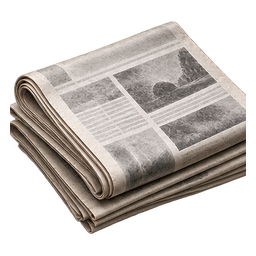
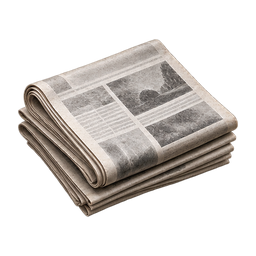
Add files via upload

diff --git a/main.js b/main.js
@@ -710,6 +710,29 @@ function getItemArtUrl(itemId) {
   return item?.image || item?.imageUrl || item?.iconSrc || null;
 }
 
+// V19.14: 首頁就開始背景下載＋解碼已製作的道具圖，提前暖好瀏覽器圖片快取。
+// 這些載入不阻塞開局、搜刮或拾取按鈕。保留 Image 參照可減少反覆解碼。
+const ITEM_ART_PRELOAD_CACHE = new Map();
+function preloadKnownItemArt() {
+  for (const itemId of AVAILABLE_ITEM_ART) {
+    if (ITEM_ART_PRELOAD_CACHE.has(itemId)) continue;
+    const image = new Image();
+    image.decoding = 'async';
+    image.src = getItemArtUrl(itemId);
+    const ready = image.decode ? image.decode().then(() => true).catch(() => false)
+      : new Promise(resolve => {
+          image.onload = () => resolve(true);
+          image.onerror = () => resolve(false);
+        });
+    ITEM_ART_PRELOAD_CACHE.set(itemId, { image, ready });
+  }
+}
+if (document.readyState === 'loading') {
+  window.addEventListener('DOMContentLoaded', preloadKnownItemArt, { once: true });
+} else {
+  preloadKnownItemArt();
+}
+
 function itemArtMarkup(itemId, classNames = 'w-9 h-9 shrink-0 object-contain pointer-events-none') {
   const url = getItemArtUrl(itemId);
   if (!url) return '';
@@ -747,29 +770,30 @@ function renderLootChoice() {
   const icon = document.getElementById('loot-choice-icon');
   const typeIcons = { weapon: '⚔', head: '🪖', chest: '👕', arm: '🧤', leg: '👟', acc: '💍', food: '🍱', material: '🧩' };
   if (icon) icon.textContent = typeIcons[item.type] || '📦';
-  // 未來只要把 PNG 放進 assets/items/，檔名與道具 id 一致，便可直接出圖；
-  // 也允許日後在道具資料中明確指定 image / imageUrl / iconSrc。
+  // 有實際圖片的道具不再先閃出 Emoji 預設圖；圖片尚在網路上時只保留暗色圖框。
+  // 首頁已先行預載＋解碼，正常情況下拾取視窗開啟時圖片可直接顯示。
   const itemImage = document.getElementById('loot-choice-image');
   const placeholder = document.getElementById('loot-choice-image-placeholder');
   if (itemImage && placeholder) {
-    // 避免上一次圖片尚未載入，就錯誤覆蓋下一件道具的預覽。
-    itemImage.onload = () => {
-      if ((state.pendingLootQueue || [])[0]?.itemId !== current.itemId) return;
-      itemImage.classList.remove('hidden');
-      placeholder.classList.add('hidden');
-    };
-    itemImage.onerror = () => {
-      if ((state.pendingLootQueue || [])[0]?.itemId !== current.itemId) return;
-      itemImage.classList.add('hidden');
-      placeholder.classList.remove('hidden');
-    };
-    itemImage.classList.add('hidden');
-    placeholder.classList.remove('hidden');
     const imageUrl = getItemArtUrl(current.itemId);
     itemImage.alt = `${item.name}的道具圖片`;
     itemImage.decoding = 'async';
-    if (imageUrl) itemImage.src = imageUrl;
-    else itemImage.removeAttribute('src');
+    if (imageUrl) {
+      placeholder.classList.add('hidden');
+      itemImage.classList.remove('hidden');
+      itemImage.onerror = () => {
+        if ((state.pendingLootQueue || [])[0]?.itemId !== current.itemId) return;
+        itemImage.classList.add('hidden');
+        placeholder.classList.remove('hidden');
+      };
+      // 不重設相同 URL，避免每次刷新/連續搜刮都重新觸發圖片狀態。
+      if (itemImage.getAttribute('src') !== imageUrl) itemImage.src = imageUrl;
+    } else {
+      itemImage.onerror = null;
+      itemImage.classList.add('hidden');
+      itemImage.removeAttribute('src');
+      placeholder.classList.remove('hidden');
+    }
   }
   document.getElementById('loot-choice-queue').textContent = queue.length > 1 ? `還有 ${queue.length - 1} 件待確認` : '點旁邊空白處即可忽略';
   const takeButton = document.getElementById('loot-choice-take');

diff --git a/index.html b/index.html
@@ -738,6 +738,6 @@
   <script src="lobby.js?v=67"></script>
   <script src="ai.js?v=77"></script>
   <script src="combat.js?v=101"></script>
-  <script src="main.js?v=104"></script>
+  <script src="main.js?v=105"></script>
 </body>
 </html>
